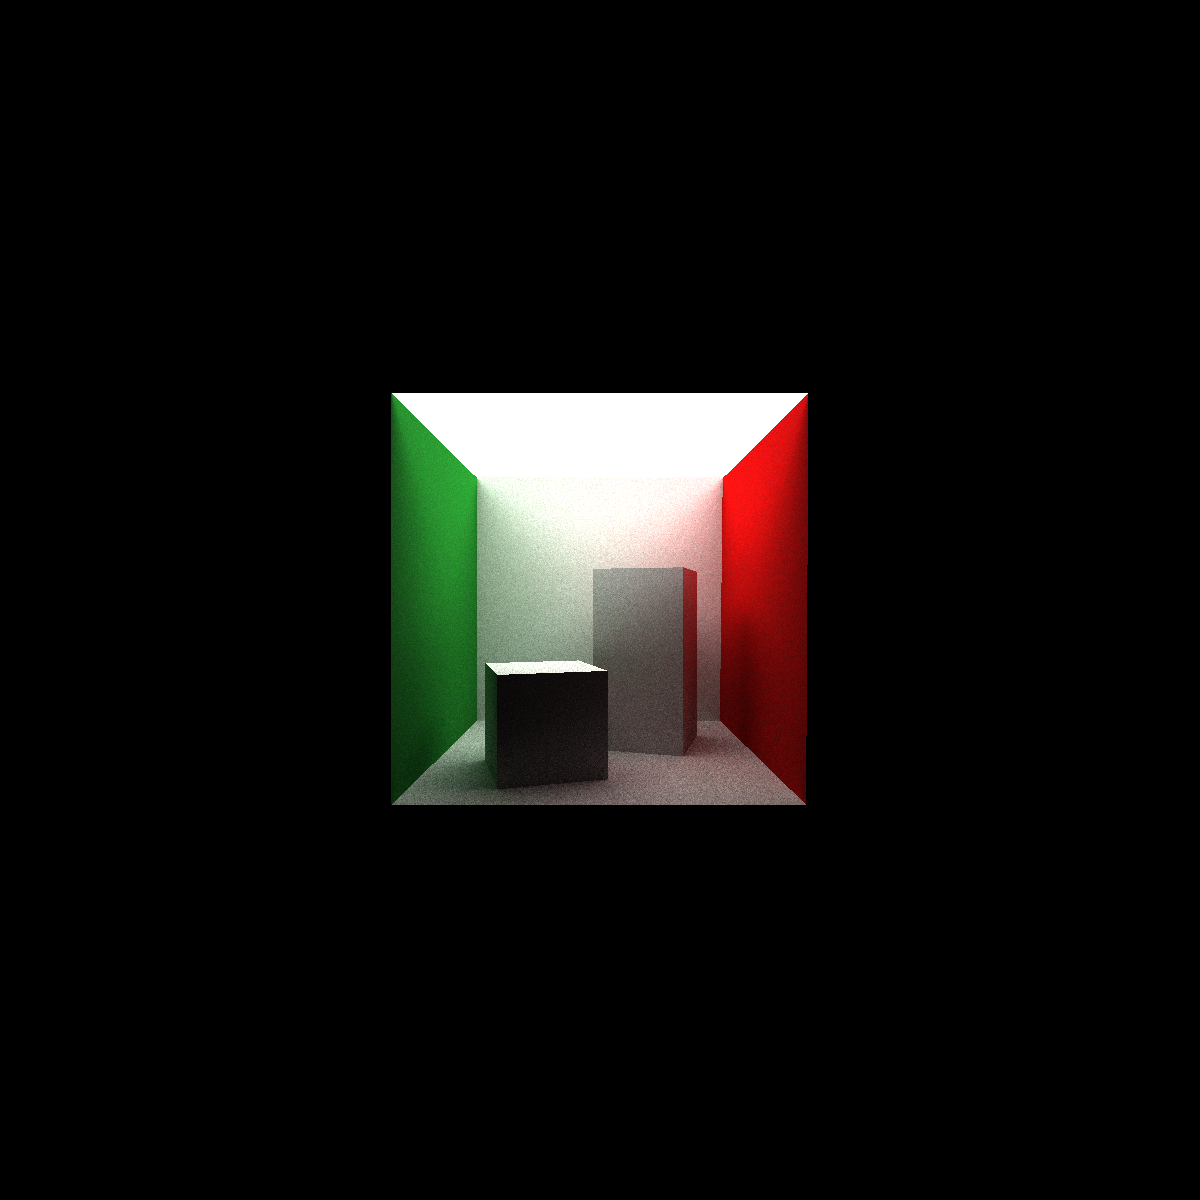
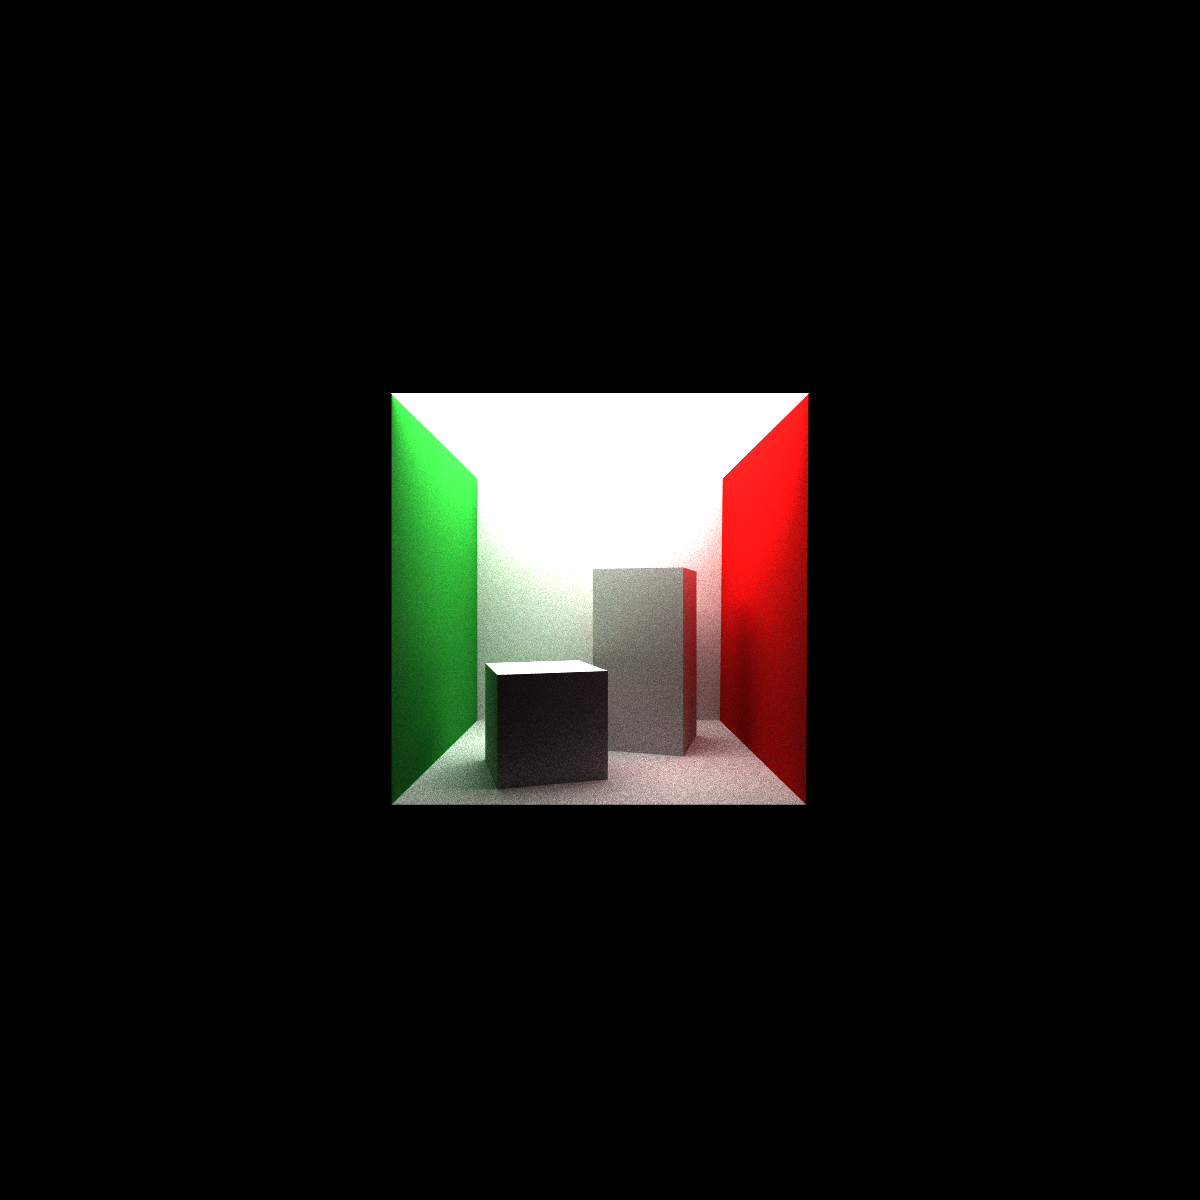
anti-aliasing

Changed region(s): [[0.3083, 0.3392, 0.6783, 0.6783]]

diff --git a/src/model/tracer.go b/src/model/tracer.go
@@ -10,6 +10,7 @@ const (
 	standardAlbedo   = 0.18
 	MAX_RAY_DISTANCE = 1000000.0
 	MAX_RAY_DEPTH    = 5
+	INVPI            = 1 / math.Pi
 )
 
 var BACKGROUND_COLOR Color
@@ -17,12 +18,24 @@ var BLACK = NewColor(0, 0, 0)
 
 type Tracer interface {
 	GetRayColor(Ray, *Scene, int) Color
+	Random() *rand.Rand
 }
 
-type whittedRayTracer struct{}
+type tracer struct {
+	random *rand.Rand
+}
+
+func (t tracer) Random() *rand.Rand {
+	return t.random
+}
+
+type whittedRayTracer struct {
+	tracer
+}
 
 func NewWhittedRayTracer() Tracer {
-	return whittedRayTracer{}
+	r := rand.New(rand.NewSource(time.Now().UnixNano()))
+	return &whittedRayTracer{tracer{random: r}}
 }
 
 func (wrt whittedRayTracer) GetRayColor(ray Ray, scene *Scene, depth int) Color {
@@ -57,7 +70,7 @@ func (wrt whittedRayTracer) GetRayColor(ray Ray, scene *Scene, depth int) Color 
 		case *DiffuseMaterial:
 			lightSegment := light.GetLightSegment(si.Point)
 			lightRatio := si.normal.Dot(lightSegment.Normalize())
-			factors := standardAlbedo / math.Pi * light.Intensity(lightSegment.Length()) * lightRatio
+			factors := standardAlbedo * INVPI * light.Intensity(lightSegment.Length()) * lightRatio
 			lightColor := light.Color().Times(factors)
 			objectColor = mat.Color.Product(lightColor)
 		case *ReflectiveMaterial:
@@ -86,13 +99,15 @@ func pointInShadow(light Light, point Vector, as AccelerationStructure) bool {
 }
 
 type pathTracer struct {
-	random *rand.Rand
+	tracer
 }
 
 func NewPathTracer() Tracer {
 	r := rand.New(rand.NewSource(time.Now().UnixNano()))
-	return &pathTracer{random: r}
+	return &pathTracer{tracer{random: r}}
 }
+
+const pdf = 2.0 * math.Pi
 
 func (pt *pathTracer) GetRayColor(ray Ray, scene *Scene, depth int) Color {
 	if depth == MAX_RAY_DEPTH {
@@ -118,9 +133,11 @@ func (pt *pathTracer) GetRayColor(ray Ray, scene *Scene, depth int) Color {
 	newRay := NewRay(si.Point, randomDirection)
 	cos := si.normal.Dot(randomDirection)
 	recursiveColor := pt.GetRayColor(newRay, scene, depth+1)
-	brdf := surfaceDiffuseColor.Times(1.0 / math.Pi)
-	pdf := 1.0 / (2.0 * math.Pi)
-	sampleColor := recursiveColor.Times(cos / pdf).Product(brdf)
+	brdf := surfaceDiffuseColor.Times(INVPI)
+	//pdf := 1.0 / (2.0 * math.Pi)
+	//TODO: albedo? just multiplying with standardalbedo leads to horrible results
+	// probably because light intensity does not make sense yet
+	sampleColor := recursiveColor.Times(cos * pdf).Product(brdf)
 	return sampleColor
 }
 

diff --git a/src/model/camera.go b/src/model/camera.go
@@ -8,7 +8,7 @@ import (
 // Triangle normals have been changed to reflect this
 
 type Camera interface {
-	PixelRay(x, y int) Ray
+	PixelRay(x, y float64) Ray
 	Width() int
 	Height() int
 	LookAt(from, to, up Vector)
@@ -85,8 +85,8 @@ func orthographic(zNear, zFar float64) Transform {
 	return Scale(1, 1, 1.0/(zFar-zNear)).Mul(Translate(Vector{0, 0, -zNear}))
 }
 
-func (c *OrthographicCamera) PixelRay(x, y int) Ray {
-	pCamera := c.rasterToCamera.Point(Vector{float64(x) + 0.5, float64(y) + 0.5, 0})
+func (c *OrthographicCamera) PixelRay(x, y float64) Ray {
+	pCamera := c.rasterToCamera.Point(Vector{x, y, 0})
 	r := NewRay(pCamera, Vector{0, 0, 1})
 	return c.cameraToWorld.Ray(r)
 }
@@ -116,8 +116,8 @@ func perspective(fov, n, f float64) Transform {
 	return Scale(invTanAng, invTanAng, 1).Mul(NewTransform(persp))
 }
 
-func (c *PerspectiveCamera) PixelRay(x, y int) Ray {
-	pCamera := c.rasterToCamera.Point(Vector{float64(x) + 0.5, float64(y) + 0.5, 0})
+func (c *PerspectiveCamera) PixelRay(x, y float64) Ray {
+	pCamera := c.rasterToCamera.Point(Vector{x, y, 0})
 	r := NewRay(Vector{0, 0, 0}, pCamera)
 	return c.cameraToWorld.Ray(r)
 }

diff --git a/src/render/render.go b/src/render/render.go
@@ -25,11 +25,23 @@ type answer struct {
 	color model.Color
 }
 
+// TODO: pass as parameter
+const antiAliasing = true
+
 func (w worker) work(tracer model.Tracer) {
+	random := tracer.Random()
 	for q := range w.in {
-		ray := w.scene.Camera.PixelRay(q.x, q.y)
+		x, y := float64(q.x), float64(q.y)
+		xvar, yvar := 0.5, 0.5
+		ray := w.scene.Camera.PixelRay(x+xvar, y+yvar)
 		color := model.NewColor(0, 0, 0)
 		for i := 0; i < w.samples; i++ {
+			// anti-aliasing: first sample is exact middle of pixel
+			// rest is randomly sampled
+			if antiAliasing && i != 0 {
+				xvar, yvar = random.Float64(), random.Float64()
+				ray = w.scene.Camera.PixelRay(x+xvar, y+yvar)
+			}
 			sampleColor := tracer.GetRayColor(ray, w.scene, 0)
 			color = color.Add(sampleColor)
 		}

diff --git a/src/model/bvh.go b/src/model/bvh.go
@@ -256,7 +256,7 @@ func (bvh *BVH) ClosestIntersection(ray Ray, maxDistance float64) (*SurfaceInter
 }
 
 // Bounded Volume Hierarchy for triangles only!
-// 4-ary tree
+// TODO: mBVH: 4-ary tree
 type TriangleBVH struct {
 	triangles []Triangle
 	nodes     []optimisedBVHNode

diff --git a/src/main.go b/src/main.go
@@ -15,7 +15,7 @@ var (
 	width      uint = 1200
 	height     uint = 1200
 	numWorkers      = 10
-	numSamples      = 100
+	numSamples      = 1000
 
 	ex = m.Vector{1, 0, 0}
 	ey = m.Vector{0, 1, 0}
